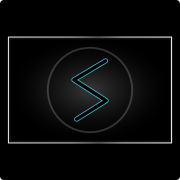
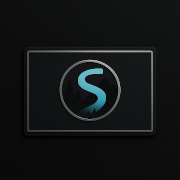
Nuevas imágenes

diff --git a/src/app/pages/login-page/login-page.html b/src/app/pages/login-page/login-page.html
@@ -5,8 +5,10 @@
         <p-card [style]="{ width: '25rem', overflow: 'hidden' }">
             <ng-template #header>
                 <div class="flex center m-top">
-                    <img alt="Card"
-                         src="/img/logo-small.png" />
+                    <img alt="Styx"
+                         ngSrc="/img/logo-small.webp"
+                         width="200"
+                         height="135" />
                 </div>
             </ng-template>
             <ng-template #title> Iniciar sesión </ng-template>

diff --git a/src/app/pages/login-page/login-page.ts b/src/app/pages/login-page/login-page.ts
@@ -1,3 +1,4 @@
+import { NgOptimizedImage } from '@angular/common';
 import { Component, inject, signal, WritableSignal } from '@angular/core';
 import { FormBuilder, FormsModule, ReactiveFormsModule, Validators } from '@angular/forms';
 import { Router } from '@angular/router';
@@ -20,6 +21,7 @@ import { MessageModule } from 'primeng/message';
     FloatLabel,
     FormsModule,
     ReactiveFormsModule,
+    NgOptimizedImage,
   ],
   templateUrl: './login-page.html',
   styleUrl: './login-page.scss',
